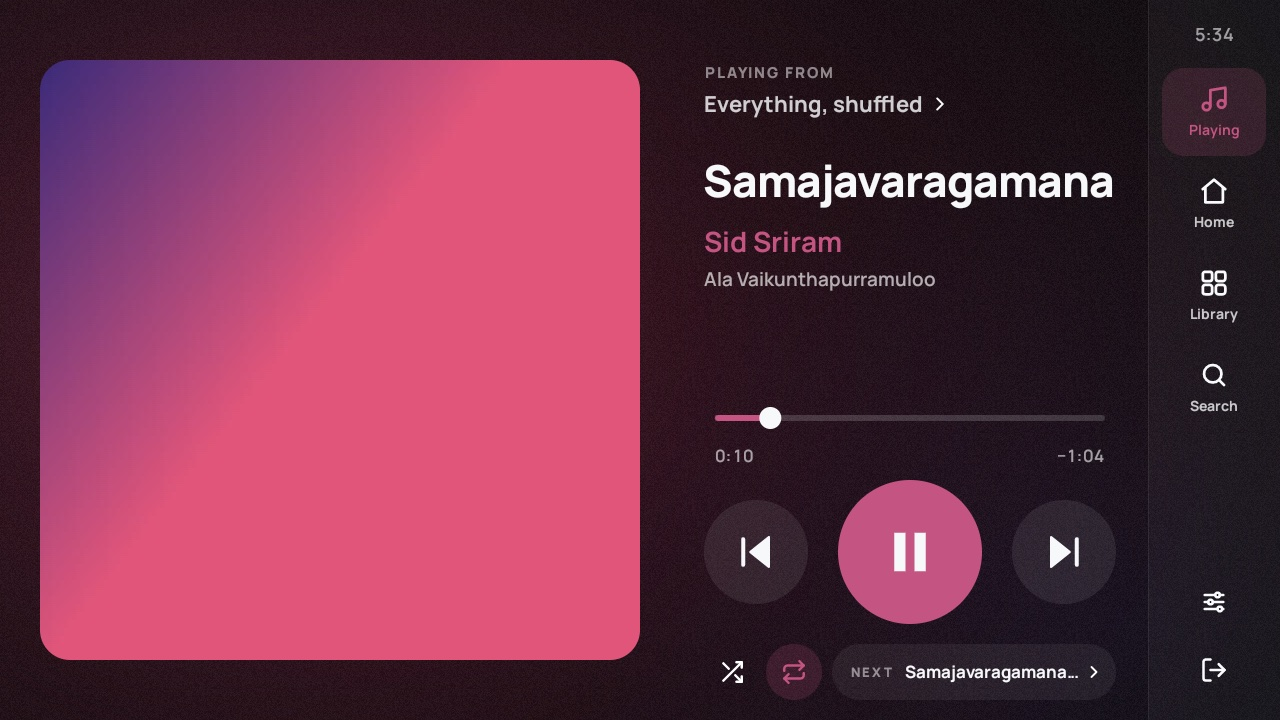
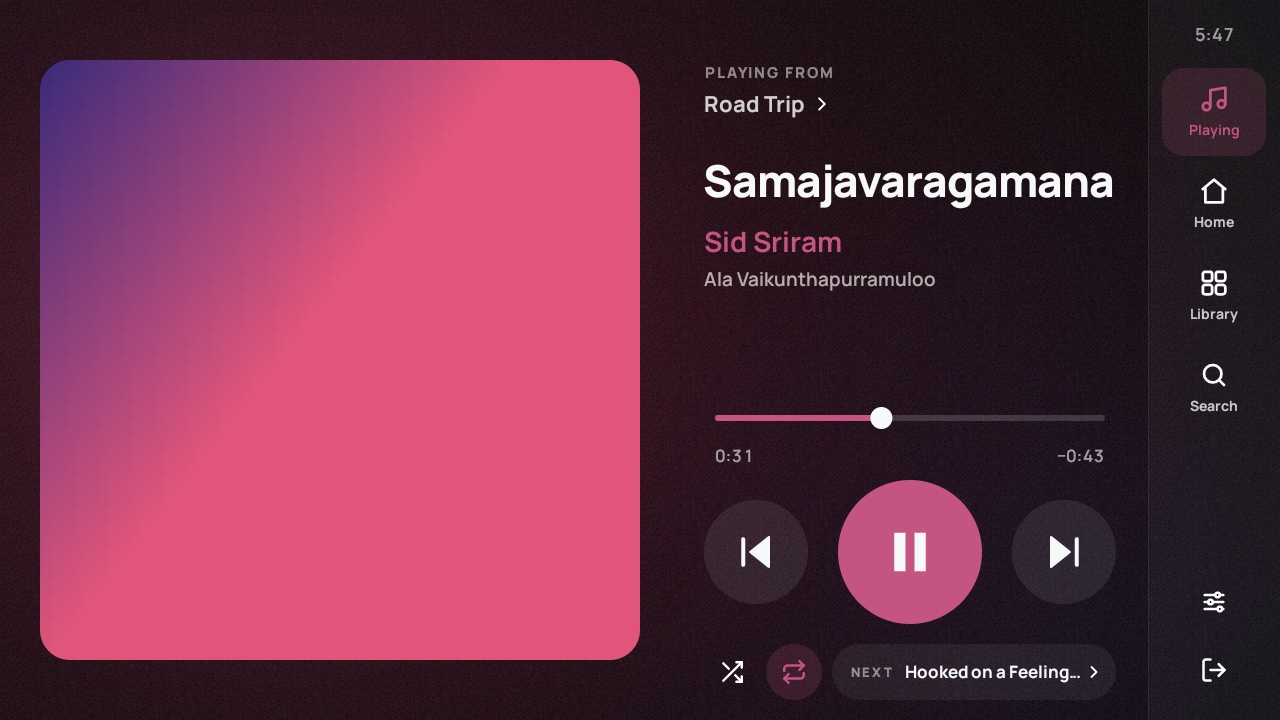
MIT license, fresh screenshots (incl. queue), release link in README

diff --git a/README.md b/README.md
@@ -9,15 +9,19 @@ It was built for a budget 1280×720 head unit (Unisoc SC7731E, quad Cortex‑A7,
   <img src="docs/screenshots/car_glance.jpg" width="49%" alt="Glance mode: big title and controls for driving">
 </p>
 <p>
-  <img src="docs/screenshots/car_home.jpg" width="32.5%" alt="Home">
-  <img src="docs/screenshots/car_folder.jpg" width="32.5%" alt="A folder with subfolders and songs">
-  <img src="docs/screenshots/car_library.jpg" width="32.5%" alt="Library">
+  <img src="docs/screenshots/car_home.jpg" width="49%" alt="Home">
+  <img src="docs/screenshots/car_folder.jpg" width="49%" alt="A folder with subfolders and songs">
 </p>
 <p>
-  <img src="docs/screenshots/phone_home.jpg" width="24%" alt="Home on a phone">
-  <img src="docs/screenshots/phone_player.jpg" width="24%" alt="Full-screen player on a phone">
-  <img src="docs/screenshots/phone_folder.jpg" width="24%" alt="Folder on a phone">
-  <img src="docs/screenshots/phone_library.jpg" width="24%" alt="Library on a phone">
+  <img src="docs/screenshots/car_library.jpg" width="49%" alt="Library">
+  <img src="docs/screenshots/car_queue.jpg" width="49%" alt="The queue: drag to reorder what plays next">
+</p>
+<p>
+  <img src="docs/screenshots/phone_home.jpg" width="19.5%" alt="Home on a phone">
+  <img src="docs/screenshots/phone_player.jpg" width="19.5%" alt="Full-screen player on a phone">
+  <img src="docs/screenshots/phone_folder.jpg" width="19.5%" alt="Folder on a phone">
+  <img src="docs/screenshots/phone_library.jpg" width="19.5%" alt="Library on a phone">
+  <img src="docs/screenshots/phone_queue.jpg" width="19.5%" alt="The queue on a phone">
 </p>
 
 ## Features
@@ -50,7 +54,7 @@ It was built for a budget 1280×720 head unit (Unisoc SC7731E, quad Cortex‑A7,
 
 ## Install
 
-Build an APK (below), then install it:
+Download the APK from [Releases](https://github.com/MS-Teja/Bumblebee/releases/latest), or build it yourself (below). Then install it:
 
 - **Phone:** `adb install app-release.apk`, or open the file on the phone.
 - **Head unit:** most units are USB *hosts*, so a cable to a computer won't work. Either:
@@ -100,4 +104,7 @@ The release build is signed with the debug key so it installs without extra setu
 - [Permanent Marker](https://fonts.google.com/specimen/Permanent+Marker) by Font Diner, under the Apache License 2.0.
 - Built on [AndroidX Media3](https://developer.android.com/media/media3).
 
-"Bumblebee" is a fan nod to the Transformers character who talks through his radio. This project is not affiliated with or endorsed by Hasbro or Paramount.
+
+## License
+
+[MIT](LICENSE) © MS-Teja
